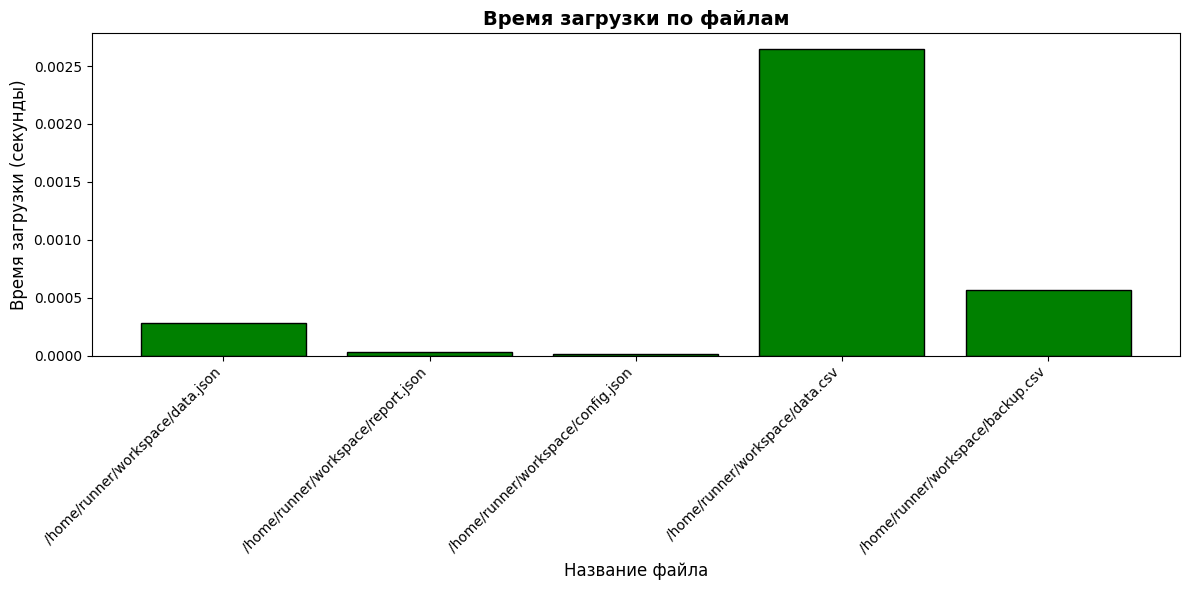
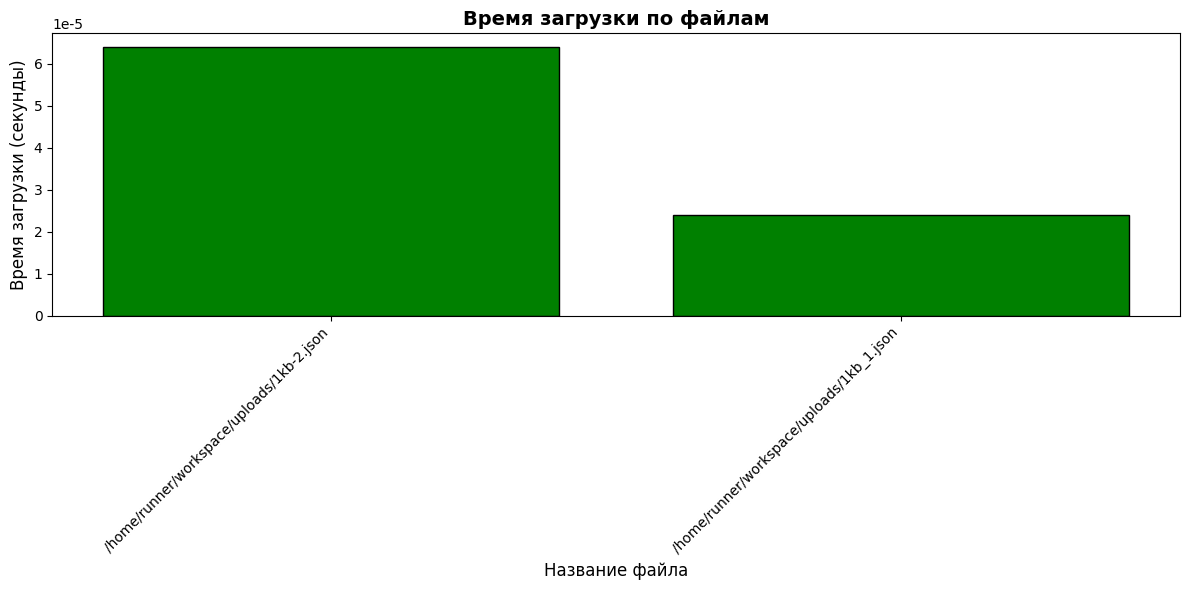
Add token-based authentication to bypass iframe cookie restrictions
Modify views.py to generate and validate signed tokens for authentication, and update index.html to include a hidden token input in the file upload form.

Replit-Commit-Author: Agent
Replit-Commit-Session-Id: 50b1236a-d4db-40f5-b2bd-c4c08b8b2a47
Replit-Commit-Checkpoint-Type: full_checkpoint
Replit-Commit-Event-Id: 7850411b-b99d-4e93-bfad-515a2f822d1e
Replit-Commit-Screenshot-Url: https://storage.googleapis.com/screenshot-production-us-central1/6e0ba943-8459-45e6-be87-6fe7970089bd/50b1236a-d4db-40f5-b2bd-c4c08b8b2a47/8L9TPXV
Replit-Helium-Checkpoint-Created: true

diff --git a/tasks/templates/tasks/index.html b/tasks/templates/tasks/index.html
@@ -171,6 +171,7 @@
             <h3>📤 Загрузите файлы для обработки</h3>
             <form method="post" enctype="multipart/form-data">
                 {% csrf_token %}
+                <input type="hidden" name="_auth_token" value="{{ auth_token }}">
                 <div class="file-input-wrapper">
                     <!-- multiple — позволяет выбрать несколько файлов сразу -->
                     <input type="file" name="files" multiple accept=".json,.csv,.txt,.xyz">

diff --git a/tasks/views.py b/tasks/views.py
@@ -1,17 +1,49 @@
 from django.shortcuts import render
-from django.contrib.auth import authenticate, login as auth_login, logout as auth_logout
+from django.contrib.auth import authenticate, login as auth_login
+from django.contrib.auth.models import User
 from django.views.decorators.csrf import csrf_exempt
+from django.core import signing
 from django.conf import settings
 from .utils.processor import process_files, create_test_files, generate_charts
 import base64
 import os
 import shutil
 
+TOKEN_SALT = 'microservice-auth-token'
+
+
+def _make_token(user):
+    return signing.dumps({'uid': user.pk}, salt=TOKEN_SALT)
+
+
+def _user_from_token(token):
+    try:
+        data = signing.loads(token, salt=TOKEN_SALT, max_age=86400 * 7)
+        return User.objects.get(pk=data['uid'])
+    except Exception:
+        return None
+
 
 @csrf_exempt
 def index(request):
-    # --- Login handling (no redirect, no cookies needed) ---
-    if not request.user.is_authenticated:
+    auth_token = None
+    authed_user = None
+
+    # 1. Check session (works when cookies available)
+    if request.user.is_authenticated:
+        authed_user = request.user
+        auth_token = _make_token(authed_user)
+
+    # 2. Check signed token in POST / GET
+    if authed_user is None:
+        token_raw = request.POST.get('_auth_token') or request.GET.get('_auth_token')
+        if token_raw:
+            authed_user = _user_from_token(token_raw)
+            if authed_user:
+                auth_token = token_raw
+
+    # 3. Try login form credentials
+    if authed_user is None:
         if request.method == 'POST' and 'username' in request.POST:
             user = authenticate(
                 request,
@@ -20,13 +52,14 @@ def index(request):
             )
             if user is not None:
                 auth_login(request, user)
-                # fall through to render the main page immediately
+                authed_user = user
+                auth_token = _make_token(user)
             else:
                 return render(request, 'registration/login.html', {'error': True})
         else:
             return render(request, 'registration/login.html', {'error': False})
 
-    # --- Main microservice page (user is authenticated) ---
+    # --- User authenticated: show main page ---
     results = None
     charts = {}
 
@@ -69,6 +102,8 @@ def index(request):
         'results': results,
         'charts': charts,
         'full_name': 'Кутилов Б.А.',
+        'auth_token': auth_token,
+        'username': authed_user.username,
     })
 
 
